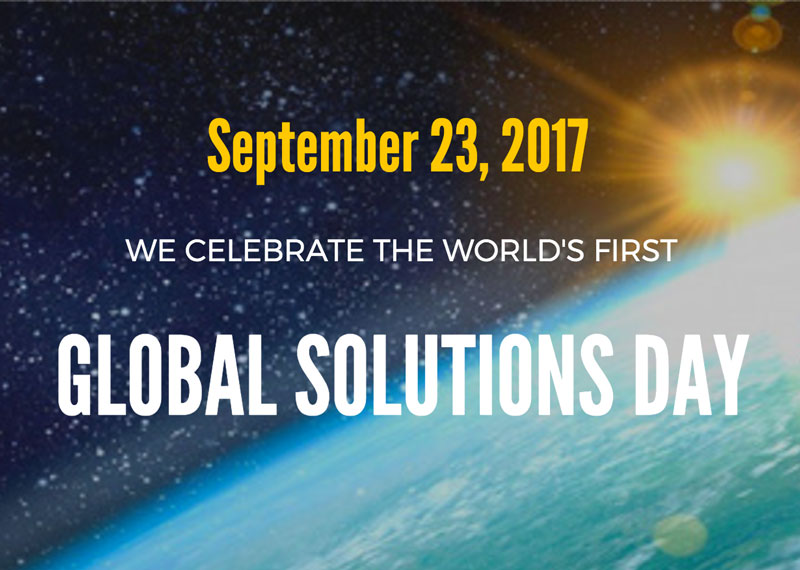
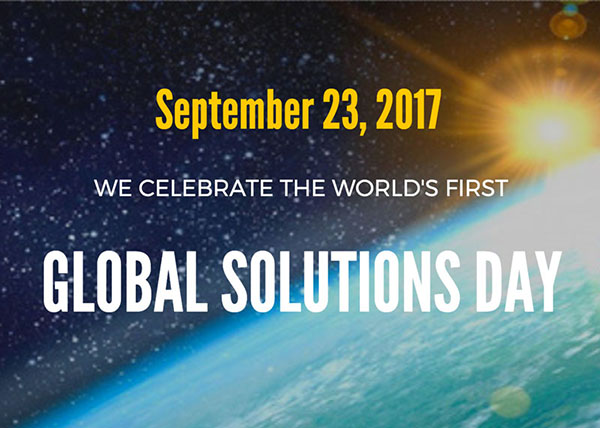
Ration card, another try...

diff --git a/_includes/head.html b/_includes/head.html
@@ -28,7 +28,7 @@
   <meta name="twitter:creator" content="@theastralship">
   <meta name="twitter:title" content="astralship.org #coliving #hackbase">
   <meta name="twitter:description" content="September 23, 2017 co-creating the world’s first Global Solutions Day! RT always appreciated 🦄">
-  <meta name="twitter:image" content="https://astralship.org/images/twitter-card.jpg">
+  <meta name="twitter:image" content="https://astralship.org/images/twitter-card-ratio.jpg">
 
 
 
